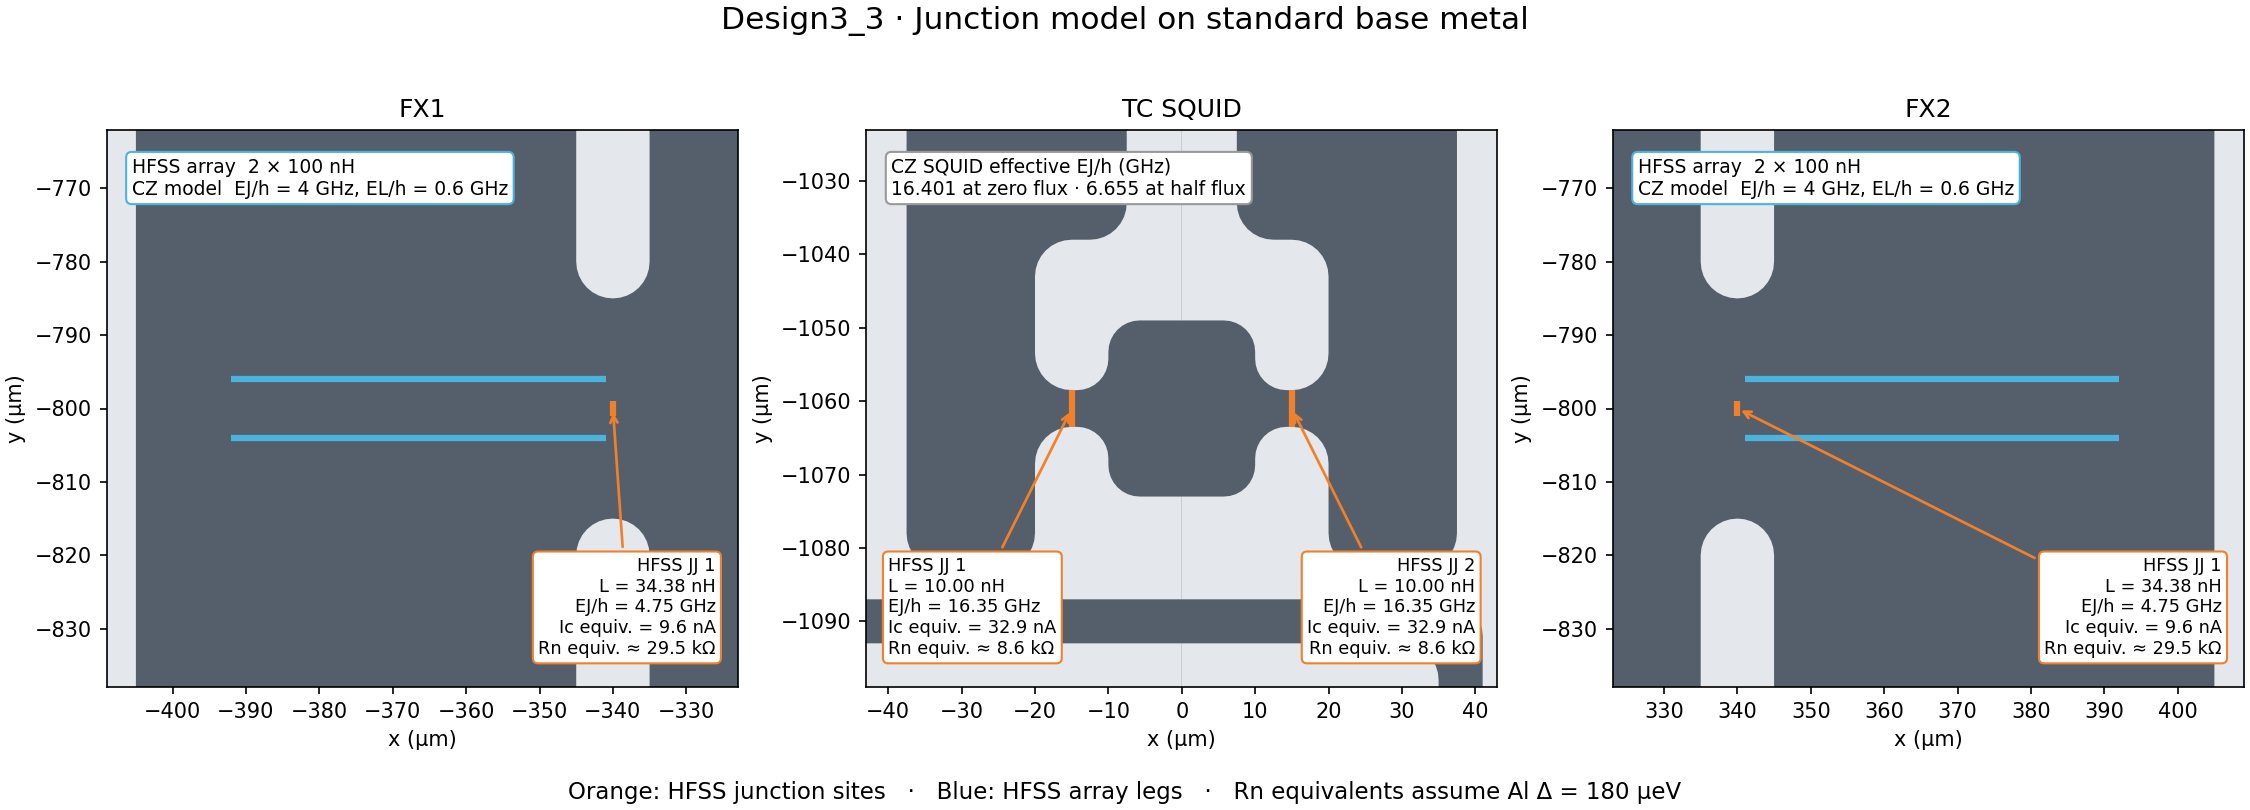
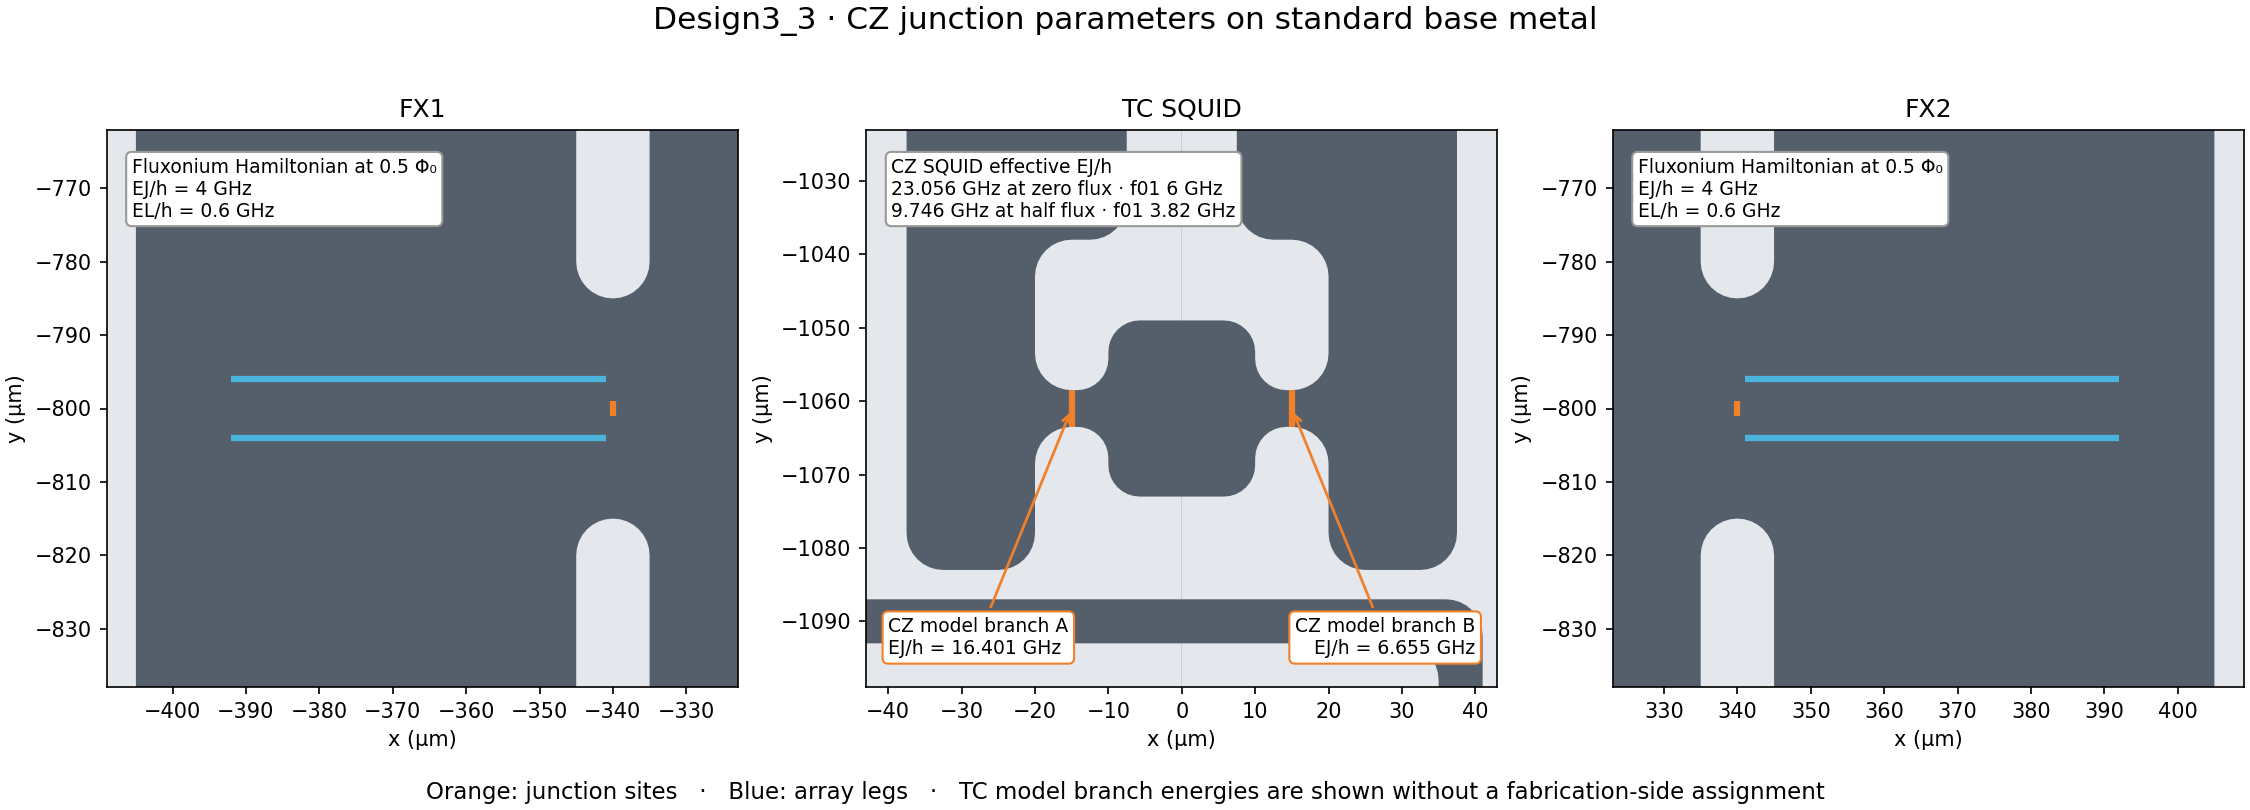
Drive junction figures from verified CZ models

diff --git a/Design6/simulation/plot_ej_layout.py b/Design6/simulation/plot_ej_layout.py
@@ -14,7 +14,13 @@ import matplotlib.pyplot as plt
 from matplotlib.patches import Polygon
 
 SIM = os.path.dirname(os.path.abspath(__file__)); DESIGN = os.path.dirname(SIM)
-D = json.load(open(os.path.join(SIM, 'results', '2026-11-15', 'ej_table', 'ej_table.json')))
+def result(*path):
+    with open(os.path.join(SIM, 'results', *path), encoding='utf-8') as source:
+        return json.load(source)
+
+
+D = result('2026-11-15', 'ej_table', 'ej_table.json')
+CZ = result('2026-11-14', 'cz_hfss_v8', 'cz_summary.json')
 P = gdstk.read_gds(os.path.join(DESIGN, 'gds', 'Design6_2026-11-15_sim.gds')).top_level()[0].flatten().polygons
 # junction sites (um, from the build_design() junction table) and their keys in ej_table.json
 SQ = dict(Q1=dict(c=(-450, -205), jj=[(-465, 'Q1a', 'a'), (-435, 'Q1b', 'b')]),
@@ -37,6 +43,15 @@ def main():
     fig = plt.figure(figsize=(20, 12))
     gs = fig.add_gridspec(2, 3, height_ratios=[1.15, 1], hspace=0.28, wspace=0.18)
     J, S = D['junctions'], D['squids']
+    params, best = CZ['params'], CZ['best']
+    for device, sq in S.items():
+        keys = (device + 'a', device + 'b') if device != 'TC' else ('TC',)
+        values = [sq['EJsum_GHz'], sq['EC_GHz'], sq['d'], *(J[key]['L_nH'] for key in keys)]
+        expected = [params['EJsum_GHz'][device], params['Ec_GHz'][device],
+                    params['d'][device], *(params['Lj_nH'][key] for key in keys)]
+        np.testing.assert_allclose(values, expected, rtol=1e-8, atol=1e-10,
+                                   err_msg=f'{device}: junction table differs from the CZ model')
+    cz_flux = {'Q1': best['a_q'], 'TC': CZ['idle']['coupler_flux'] + best['a_c'], 'Q2': 0.0}
     for i, n in enumerate(('Q1', 'TC', 'Q2')):
         ax = fig.add_subplot(gs[0, i]); cx, cy = SQ[n]['c']
         draw(ax, (cx - 42, cx + 42), (cy - 40, cy + 26))
@@ -51,10 +66,9 @@ def main():
                         bbox=dict(boxstyle='round', fc='white', ec=COL[n], alpha=0.93),
                         arrowprops=dict(arrowstyle='->', color='#ff7f0e', lw=1.4))
         s = S[n]; fmax, fmin = s['f01_GHz'][0], s['f01_GHz'][-1]
-        sym = abs(s['d']) < 1e-6
         ax.set_title(f"{n} SQUID:  E_J,Σ {s['EJsum_GHz']:.2f} GHz,  d = {s['d']:.3f}\n"
                      f"E_J,eff {s['EJsum_GHz']:.2f} → {s['EJeff_GHz'][-1]:.2f} GHz (Φ = 0 → Φ0/2)\n"
-                     f"f01 {fmax:.2f} → " + ('~0 GHz (symmetric)' if sym else f'{fmin:.2f} GHz'),
+                     f"Bare f01 {fmax:.2f} → {fmin:.2f} GHz",
                      fontsize=10.5, color=COL[n])
         ax.set_xlabel('x (µm)')
     # E_J,eff(Phi) and f01(Phi)
@@ -66,11 +80,15 @@ def main():
         ok = eff / s['EC_GHz'] > 10          # transmon regime; below: dotted (charge regime, not used)
         a2.plot(fl[ok], f[ok], color=COL[n], lw=2, label=n)
         a2.plot(fl[~ok], f[~ok], color=COL[n], lw=1.2, ls=':')
+        bias = cz_flux[n]
+        phase = np.pi * bias
+        ej_cz = params['EJsum_GHz'][n] * np.hypot(np.cos(phase), params['d'][n] * np.sin(phase))
+        a1.plot(bias, ej_cz, 'o', color=COL[n])
+        a2.plot(bias, np.interp(bias, fl, f), 'o', color=COL[n])
     a1.set_xlabel('Φ / Φ0'); a1.set_ylabel('E_J,eff / h (GHz)'); a1.legend(); a1.grid(alpha=0.3)
     a1.set_title('E_J,eff(Φ) = E_J,Σ √(cos²πΦ + d² sin²πΦ)')
-    a2.axhline(5.058, color=COL['TC'], ls='--', lw=1); a2.text(0.01, 5.12, 'TC during CZ (5.06 GHz)', color=COL['TC'], fontsize=9)
     a2.set_xlabel('Φ / Φ0'); a2.set_ylabel('f01 (GHz)'); a2.legend(); a2.grid(alpha=0.3)
-    a2.set_title('f01(Φ), scqubits TunableTransmon (dotted: E_J,eff/E_C < 10)')
+    a2.set_title('Bare f01(Φ), scqubits TunableTransmon (dotted: E_J,eff/E_C < 10)')
     # summary table
     a3 = fig.add_subplot(gs[1, 2]); a3.axis('off')
     rows = [['', 'E_C', 'a : b', 'E_J,Σ', 'E_J,eff\nat Φ0/2', 'f_max', 'f_min']]
@@ -78,16 +96,17 @@ def main():
         s = S[n]; ea, eb = (J[n + 'a'], J[n + 'b']) if n != 'TC' else (J['TC'], J['TC'])
         rows.append([n, f"{s['EC_GHz']:.3f}", f"{ea['EJ_GHz'] / eb['EJ_GHz']:.2f} : 1", f"{s['EJsum_GHz']:.2f}",
                      f"{s['EJeff_GHz'][-1]:.2f}", f"{s['f01_GHz'][0]:.2f}",
-                     '~0*' if n == 'TC' else f"{s['f01_GHz'][-1]:.2f}"])
+                     f"{s['f01_GHz'][-1]:.2f}"])
     t = a3.table(cellText=rows, loc='upper center', cellLoc='center'); t.auto_set_font_size(False); t.set_fontsize(10.5)
     t.scale(1, 2.4)
-    a3.text(0.0, 0.36, 'all in GHz (E/h, f01)\n* TC drawn symmetric: f_min set by the fab asymmetry d\n'
-            '   d = 2 / 5 / 10 %  →  f_min 0.89 / 1.28 / 1.85 GHz\n'
-            'R_n: Ambegaokar–Baratoff, Al Δ = 180 µeV (I_c R_n = 283 µV),\n'
-            '   low-T value; room-T resistance differs by ~10–20 %\n'
-            'L_J: HFSS-retargeted (README §4), E_C: HFSS fit', fontsize=9.5, va='top', transform=a3.transAxes)
-    fig.suptitle('Design6 junctions on the layout (gds/Design6_2026-11-15_sim.gds; orange = junction site; '
-                 'metal light / etch dark)', fontsize=12)
+    a3.text(0.0, 0.49, f"{best['T_ns']:g} ns CZ bias (markers, Φ/Φ0)\n"
+            f"Q1 {cz_flux['Q1']:.3f} · TC {cz_flux['TC']:.3f} · Q2 {cz_flux['Q2']:.3f}\n"
+            f"Dressed f01 at CZ · Q1 {best['f1_gate_GHz']:.3f} · TC {best['fc_gate_GHz']:.3f} GHz\n"
+            'Table values use GHz (E/h and f01).\n'
+            'Symmetric TC reaches the charge regime near half flux.\n'
+            'R_n uses the low-T Ambegaokar–Baratoff estimate for Al Δ = 180 µeV.',
+            fontsize=9.5, va='top', transform=a3.transAxes)
+    fig.suptitle(f"Design6 · {best['T_ns']:g} ns CZ Hamiltonian on the simulation GDS", fontsize=14)
     out = os.path.join(DESIGN, 'fig', 'Design6_2026-11-15_ej_layout.png')
     fig.savefig(out, dpi=110, bbox_inches='tight'); print('saved', out)
 

diff --git a/note/plot_junction_layout.py b/note/plot_junction_layout.py
@@ -10,10 +10,8 @@ matplotlib.use('Agg')
 import matplotlib.pyplot as plt
 from matplotlib.collections import PolyCollection
 import numpy as np
-from scipy.constants import e, h
 
 ROOT = Path(__file__).resolve().parents[1]
-PHI_0 = h / (2 * e)
 
 
 def get_design(name):
@@ -29,10 +27,17 @@ def get_design(name):
             ('FX1', 'TC', 'FX2'))
 
 
-def junction_params(inductance):
-    ic = PHI_0 / (2 * np.pi * inductance)
-    rn = np.pi * 180e-6 / (2 * ic)  # Ambegaokar–Baratoff with Al Δ/e = 180 µV
-    return ic * PHI_0 / (2 * np.pi * h) / 1e9, ic / 1e-9, rn / 1e3
+def design33_cz_parameters():
+    folder = ROOT / 'Design3_3'
+    sys.path.insert(0, str(folder / 'gate_model'))
+    from validate_gate import extracted
+    import verify as cz
+
+    electrical, _ = extracted(folder / 'results/arms6p7_18p9_cmat_fF.csv')
+    ec_tc = electrical['Ec_TC [GHz]']
+    idle = cz.coupler_EJ(ec_tc, cz.TC_IDLE_GHZ)
+    at_cz = cz.coupler_EJ(ec_tc, cz.TC_CZ_GHZ)
+    return cz.FT, idle, at_cz, cz.TC_IDLE_GHZ, cz.TC_CZ_GHZ
 
 
 def main():
@@ -46,6 +51,9 @@ def main():
             (ROOT / 'Design2/simulation/results/layout3_full/transition_estimates.json')
             .read_text(encoding='utf-8')
         )
+    else:
+        fx, idle, at_cz, f_idle, f_cz = design33_cz_parameters()
+        tc_junctions = ((idle + at_cz) / 2, (idle - at_cz) / 2)
     top, = gdstk.read_gds(mask).top_level()
     metal = [p for p in top.get_polygons() if p.layer == 1]
     table = model.qgeometry.tables['junction']
@@ -69,38 +77,34 @@ def main():
             is_array = row.name.startswith('array')
             color = '#4bb4dc' if is_array else '#f0802a'
             ax.plot(*line.T, lw=3, color=color, solid_capstyle='butt')
-            if is_array or design2:
-                continue
-            lj = float(row.hfss_inductance.removesuffix('nH'))
-            ej, ic, rn = junction_params(lj * 1e-9)
-            xoff = -40 if len(rows) == 2 and i == 0 else 40
-            ax.annotate(f'HFSS JJ {i+1}\nL = {lj:.2f} nH\nEJ/h = {ej:.2f} GHz\nIc equiv. = {ic:.1f} nA\nRn equiv. ≈ {rn:.1f} kΩ',
-                        xy=line.mean(axis=0), xytext=(x + xoff, y - 34),
-                        ha='left' if xoff < 0 else 'right', va='bottom', fontsize=8.5,
-                        bbox=dict(boxstyle='round', fc='white', ec=color),
-                        arrowprops=dict(arrowstyle='->', color=color, lw=1.3))
-        if design2:
-            if label.startswith('FX'):
-                note = (f"Fluxonium Hamiltonian at {estimates['FX_flux_in_Phi0']:g} Φ₀\n"
-                        f"EJ/h = {estimates['FX_EJ_GHz']:g} GHz\n"
-                        f"EL/h = {estimates['FX_EL_GHz']:g} GHz")
+            if not is_array and not design2 and label == 'TC SQUID':
+                left = i == 0
+                ax.annotate(f'CZ model branch {chr(65+i)}\nEJ/h = {tc_junctions[i]:.3f} GHz',
+                            xy=line.mean(axis=0), xytext=(x + (-40 if left else 40), y - 34),
+                            ha='left' if left else 'right', va='bottom', fontsize=9,
+                            bbox=dict(boxstyle='round', fc='white', ec=color),
+                            arrowprops=dict(arrowstyle='->', color=color, lw=1.3))
+        if label.startswith('FX'):
+            if design2:
+                ej, el = estimates['FX_EJ_GHz'], estimates['FX_EL_GHz']
+                bias = estimates['FX_flux_in_Phi0']
             else:
-                note = 'SQUID junction sites'
-            ax.text(.04, .95, note, va='top', transform=ax.transAxes, fontsize=9,
-                    bbox=dict(boxstyle='round', fc='white', ec='0.6'))
-        elif label.startswith('FX'):
-            array_note = 'HFSS array  2 × 100 nH'
-            if args.design == 'Design3_3':
-                array_note += '\nCZ model  EJ/h = 4 GHz, EL/h = 0.6 GHz'
-            ax.text(.04, .95, array_note, va='top', transform=ax.transAxes, fontsize=9,
-                    bbox=dict(boxstyle='round', fc='white', ec='#4bb4dc'))
-        elif args.design == 'Design3_3':
-            ax.text(.04, .95, 'CZ SQUID effective EJ/h (GHz)\n16.401 at zero flux · 6.655 at half flux', va='top',
-                    transform=ax.transAxes, fontsize=9, bbox=dict(boxstyle='round', fc='white', ec='0.6'))
+                ej, el = fx[:2] if label == 'FX1' else fx[2:]
+                bias = 0.5
+            note = f'Fluxonium Hamiltonian at {bias:g} Φ₀\nEJ/h = {ej:g} GHz\nEL/h = {el:g} GHz'
+        elif design2:
+            note = 'SQUID junction sites'
+        else:
+            note = (f'CZ SQUID effective EJ/h\n{idle:.3f} GHz at zero flux · f01 {f_idle:g} GHz\n'
+                    f'{at_cz:.3f} GHz at half flux · f01 {f_cz:g} GHz')
+        ax.text(.04, .95, note, va='top', transform=ax.transAxes, fontsize=9,
+                bbox=dict(boxstyle='round', fc='white', ec='0.6'))
 
-    fig.suptitle(f'{args.design} · Junction model on standard base metal', fontsize=15)
-    caption = ('Orange: junction sites   ·   Blue: array legs' if design2 else
-               'Orange: HFSS junction sites   ·   Blue: HFSS array legs   ·   Rn equivalents assume Al Δ = 180 µeV')
+    model_title = 'Junction model' if design2 else 'CZ junction parameters'
+    fig.suptitle(f'{args.design} · {model_title} on standard base metal', fontsize=15)
+    caption = 'Orange: junction sites   ·   Blue: array legs'
+    if not design2:
+        caption += '   ·   TC model branch energies are shown without a fabrication-side assignment'
     fig.supxlabel(caption, fontsize=11)
     out = mask.parents[1] / 'fig/junction_parameters.png'
     fig.savefig(out, dpi=150)

diff --git a/Design3_3/optimize_pulse.py b/Design3_3/optimize_pulse.py
@@ -18,7 +18,7 @@ def run(args):
     e,beta=extracted(args.matrix)
     s.ec1,s.ect,s.ec2,s.j1,s.j2,s.j12=e.values()
     s.beta=beta
-    on=3.82
+    on=ramp.TC_CZ_GHZ
     nf,nt=args.fx_levels,args.tc_levels
     energies,_,ids,ops=s.setup(on,nf,nt)
     setup=s.setup
@@ -29,7 +29,7 @@ def run(args):
         s.setup=setup
     cases=sorted(cases,key=lambda r:r['delta_sel_MHz'],reverse=True)
     X=np.einsum('q,qij->ij',beta[:,1],ops)
-    path=ramp.ramp_path(6.,on,args.ramp_points,nf,nt)
+    path=ramp.ramp_path(ramp.TC_IDLE_GHZ,on,args.ramp_points,nf,nt)
     rows=[]
     for tr in args.ramp_ns:
         before=ramp_U(path,tr)[:,path[2]]

diff --git a/Design3_3/recheck_pulse.py b/Design3_3/recheck_pulse.py
@@ -18,10 +18,10 @@ def run(args):
     s.ec1,s.ect,s.ec2,s.j1,s.j2,s.j12=electrical.values()
     s.beta=beta
     nf,nt=args.fx_levels,args.tc_levels
-    on=3.82
+    on=ramp.TC_CZ_GHZ
     w,_,ids,ops=s.setup(on,nf,nt)
     X=np.einsum('q,qij->ij',beta[:,1],ops)
-    path=ramp.ramp_path(6.,on,args.ramp_points,nf,nt)
+    path=ramp.ramp_path(ramp.TC_IDLE_GHZ,on,args.ramp_points,nf,nt)
     best=sorted(csv.DictReader(args.pulses.open()),key=lambda r:(int(r['total_ns']),float(r['error'])))
     durations=sorted({int(r['total_ns']) for r in best})
     reports=[]

diff --git a/Design3_3/validate_gate.py b/Design3_3/validate_gate.py
@@ -52,7 +52,7 @@ def main():
     import verify as ramp
     import sweep as model
     from sequence import ramp_U, flat_U
-    on, off = 3.82, 6.
+    on, off = ramp.TC_CZ_GHZ, ramp.TC_IDLE_GHZ
     model.ec1,model.ect,model.ec2,model.j1,model.j2,model.j12 = electrical.values()
     model.beta = beta
     nf, nt = args.fx_levels, args.tc_levels

diff --git a/Design3_3/gate_model/verify.py b/Design3_3/gate_model/verify.py
@@ -11,6 +11,8 @@ def set_deng():
     FT=(4.2,.6,4.,.55)
 
 FT=(4.,.6,4.,.6)
+TC_IDLE_GHZ = 6.0
+TC_CZ_GHZ = 3.82
 original_fluxonium=lru_cache(None)(s.fluxonium)
 def flux(e,*args,**kwargs):
     a,b=FT[:2] if abs(e-s.ec1)<1e-9 else FT[2:]

diff --git a/Design3_3/README.md b/Design3_3/README.md
@@ -18,7 +18,7 @@ Both 10 × 10 mm masks use positive base metal on layer 1/0, with the FTF00 die 
 ![Junction geometry and model parameters for FX1, TC and FX2](fig/junction_parameters.png)
 
 Regenerate the annotated junction figure from the repository root with
-`python -B note/plot_junction_layout.py Design3_3`. The overlay shows the lumped HFSS junction and array locations on the standard base-metal mask. The orange callouts convert the HFSS lumped inductances to equivalent junction parameters. The CZ Hamiltonian uses independent energy inputs. Each fluxonium uses \(E_J/h = 4\) GHz and \(E_L/h = 0.6\) GHz. The TC values 16.401 and 6.655 GHz are the effective energy of the full SQUID at zero and half flux, respectively. In the two-junction SQUID model those endpoints imply individual \(E_J/h\) values of 11.528 and 4.873 GHz, with the junction assignment unspecified. The two 10 nH HFSS elements represent the symmetric linear fixture.
+`python -B note/plot_junction_layout.py Design3_3`. The overlay shows the lumped HFSS junction and array locations on the standard base-metal mask. The annotated energies come from the 31 ns CZ Hamiltonian. Each fluxonium uses \(E_J/h = 4\) GHz and \(E_L/h = 0.6\) GHz at half flux. The TC has effective \(E_J/h\) of 23.056 GHz at zero flux and 9.746 GHz at half flux. The corresponding model branches are 16.401 and 6.655 GHz. Their placement in the figure is illustrative because the circuit calculation does not specify a fabrication-side assignment.
 
 ## Q3D
 
@@ -35,7 +35,7 @@ Regenerate the annotated junction figure from the repository root with
 
 The final Q3D solution exported at pass 12 with ΔC = 1.235% against the 0.65% setup target. Pass 11 gave +309.050 / −369.070 MHz. The matrix includes the two FX readout conductors and the three local charge-line electrodes. The drive coefficients use the inverse capacitance matrix in the fluxonium differential coordinates.
 
-The circuit model gives idle ZZ = −0.621 kHz and exchange magnitude 0.227 kHz at 6.0 GHz, and ZZ = −1.573 kHz and exchange magnitude 2.248 kHz at the 3.82 GHz CZ point. The effective junction energies for those endpoints are 16.401 / 6.655 GHz after division by h.
+The circuit model gives idle ZZ = −0.621 kHz and exchange magnitude 0.227 kHz at 6.0 GHz, and ZZ = −1.573 kHz and exchange magnitude 2.248 kHz at the 3.82 GHz CZ point. The effective SQUID energies for those endpoints are 23.056 / 9.746 GHz after division by h.
 
 - [Full charge-drive, capacitance and coupling comparison](results/comparison.csv)
 - [Final Q3D matrix](results/arms6p7_18p9_cmat_fF.csv)
